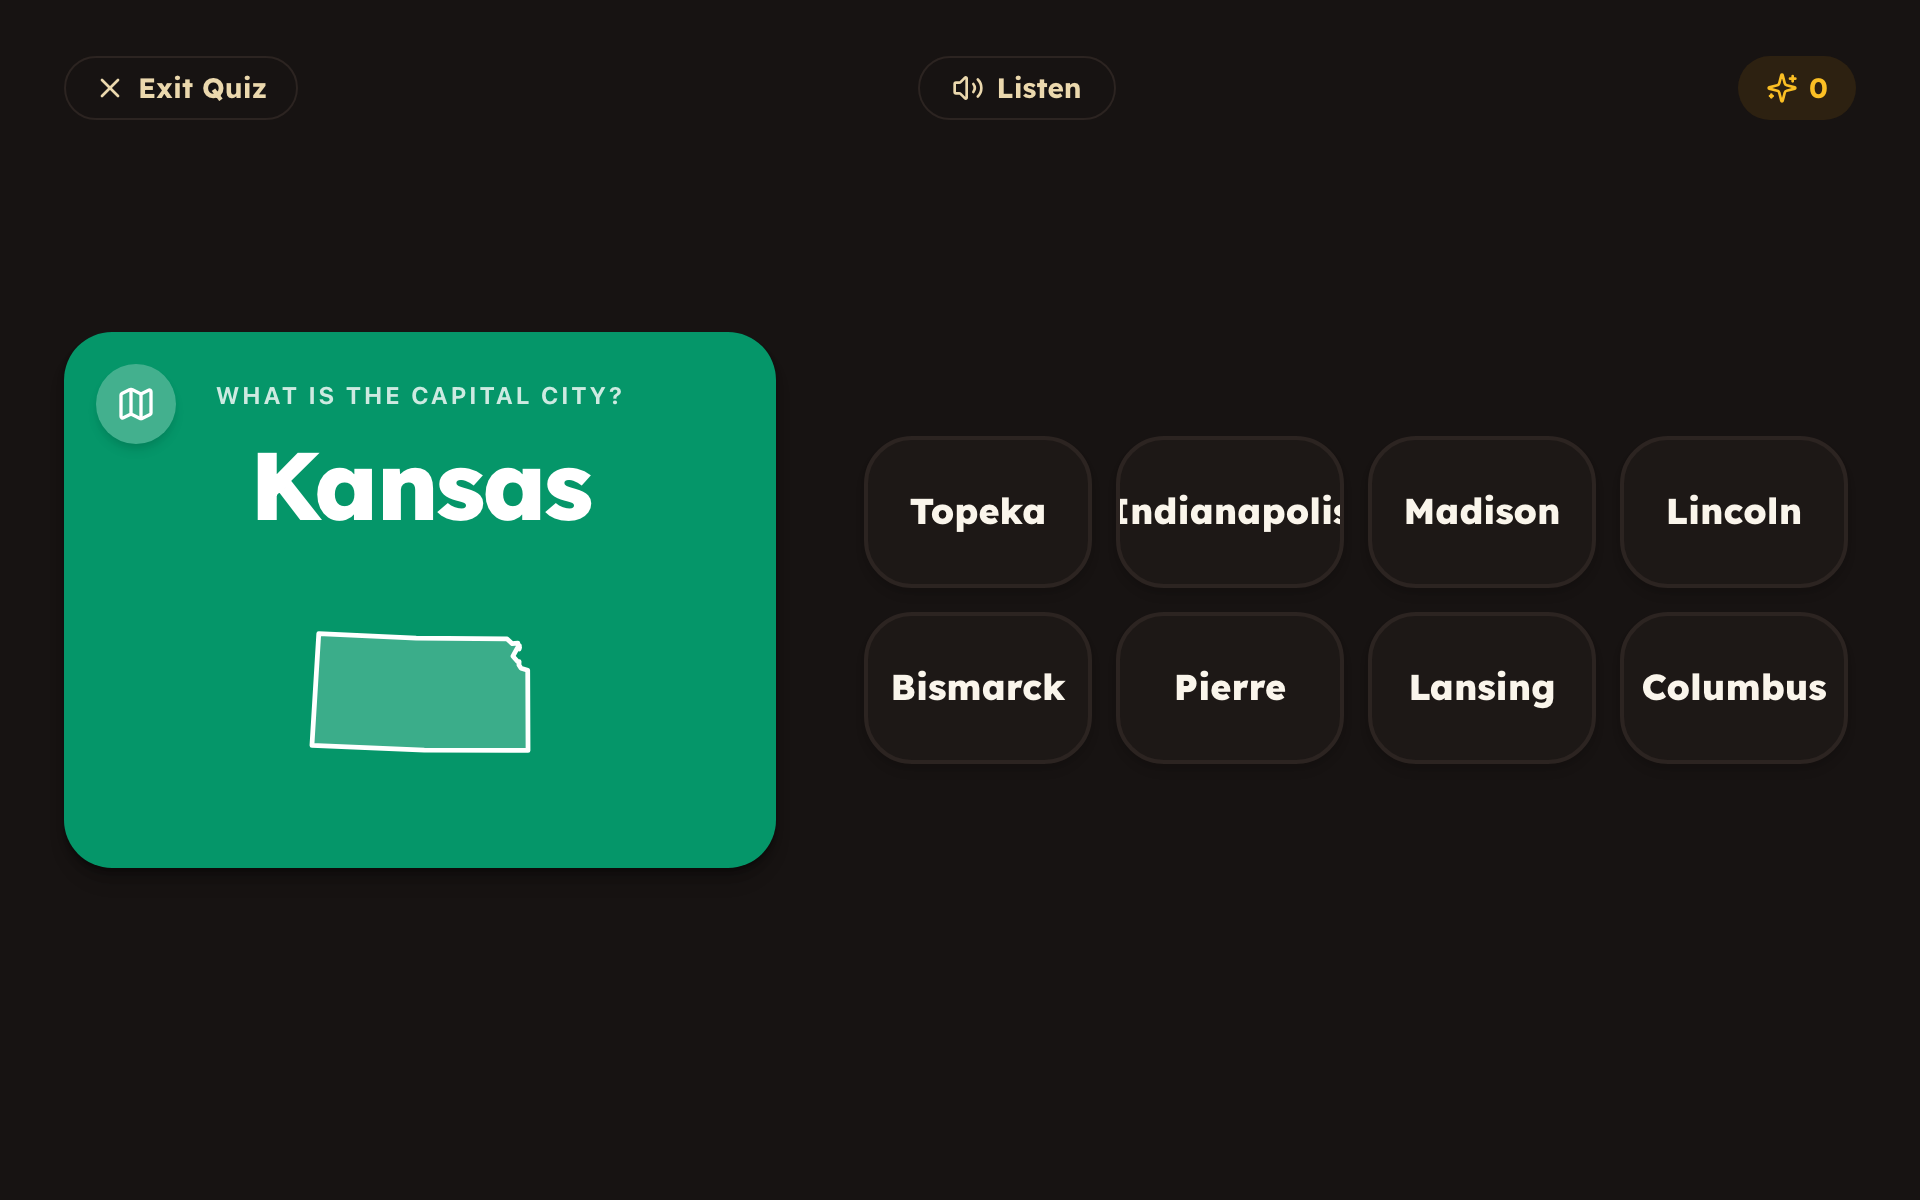
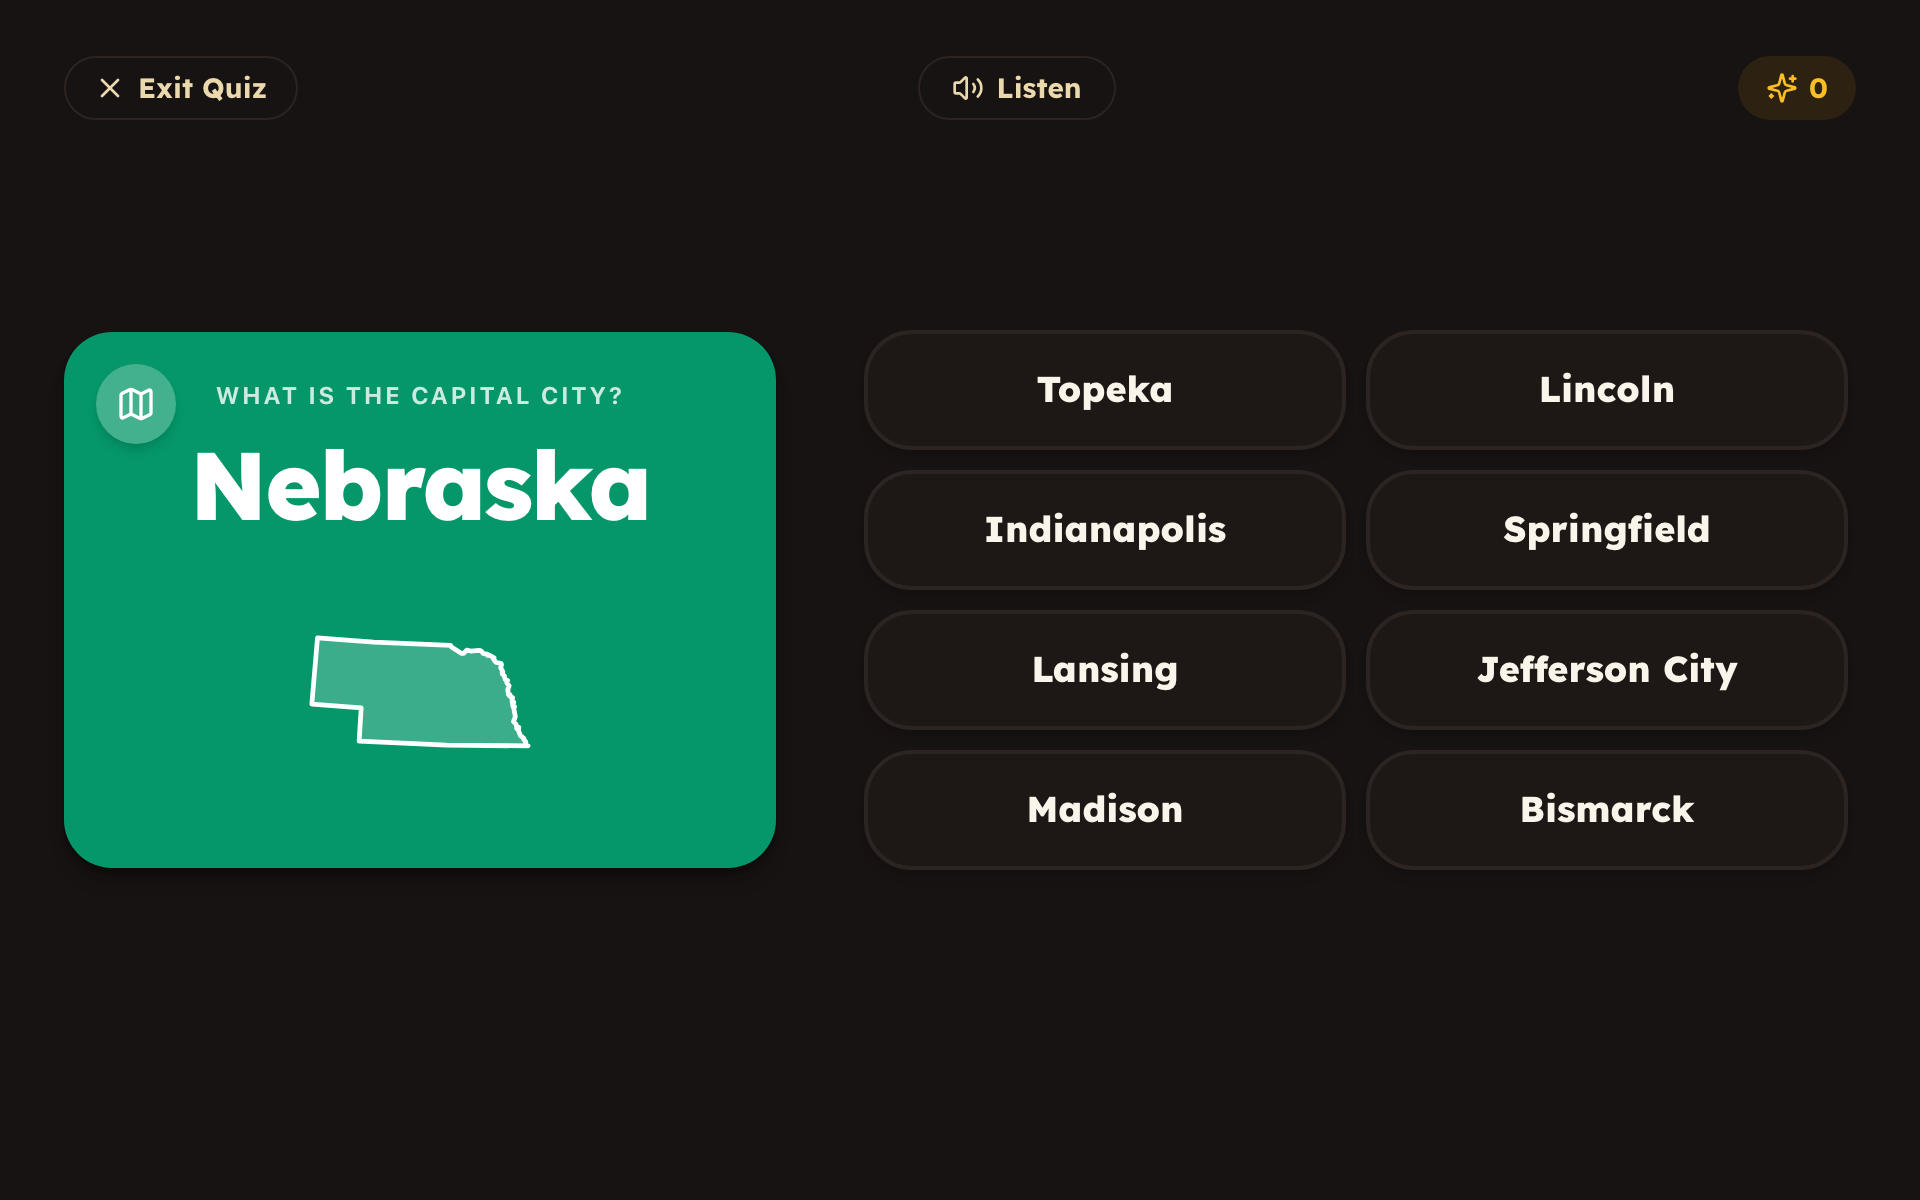
fix(us-states-deck): use 2-column quiz options grid so long state/capital names never clip

diff --git a/apps/us-states-deck/src/components/quiz-display.tsx b/apps/us-states-deck/src/components/quiz-display.tsx
@@ -230,12 +230,12 @@ export function QuizDisplay({
       input={
         <div
           className={cn(
-            "w-full grid p-1",
+            "w-full grid grid-cols-2 p-1",
             options.length <= 4
-              ? "grid-cols-2 gap-3 sm:gap-4"
+              ? "gap-3 sm:gap-4"
               : options.length <= 6
-              ? "grid-cols-2 sm:grid-cols-3 gap-2.5 sm:gap-3.5"
-              : "grid-cols-2 sm:grid-cols-4 gap-2 sm:gap-3"
+              ? "gap-2.5 sm:gap-3"
+              : "gap-2 sm:gap-2.5"
           )}
         >
           {options.map((opt) => {
@@ -248,12 +248,12 @@ export function QuizDisplay({
                 key={opt.value}
                 type="button"
                 className={cn(
-                  "w-full rounded-2xl sm:rounded-3xl flex flex-col items-center justify-center font-headline font-bold shadow-md transition-all active:scale-95 relative overflow-hidden border-2 px-3 py-2.5 text-center select-none",
+                  "w-full rounded-2xl sm:rounded-3xl flex flex-col items-center justify-center font-headline font-bold shadow-md transition-all active:scale-95 relative overflow-hidden border-2 px-3 py-2 text-center select-none",
                   options.length <= 4
                     ? "min-h-[76px] sm:min-h-[96px]"
                     : options.length <= 6
-                    ? "min-h-[68px] sm:min-h-[84px]"
-                    : "min-h-[60px] sm:min-h-[76px]",
+                    ? "min-h-[60px] sm:min-h-[72px]"
+                    : "min-h-[50px] sm:min-h-[60px]",
                   isSelectedCorrect &&
                     "bg-emerald-500 text-white scale-[1.03] border-emerald-300 z-10 shadow-xl shadow-emerald-500/30",
                   isSelectedIncorrect &&
